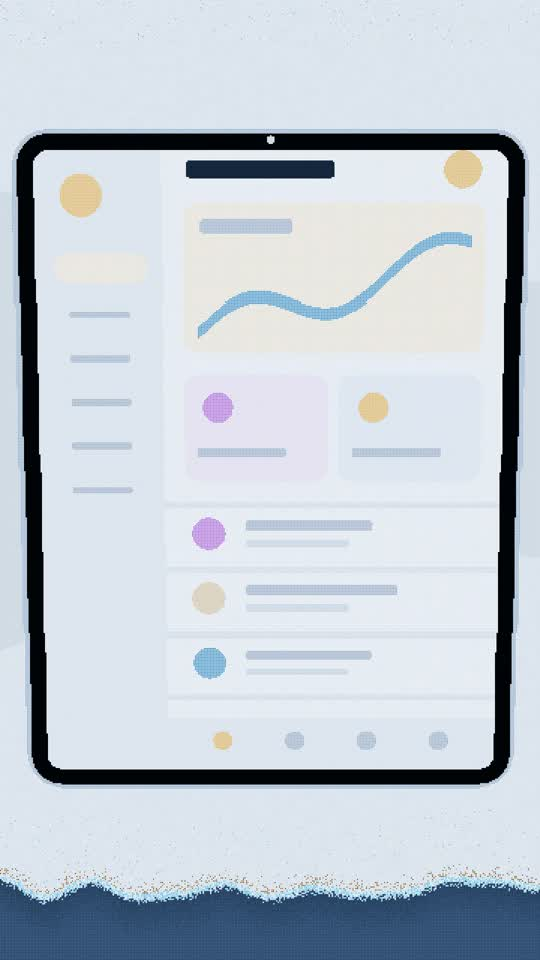
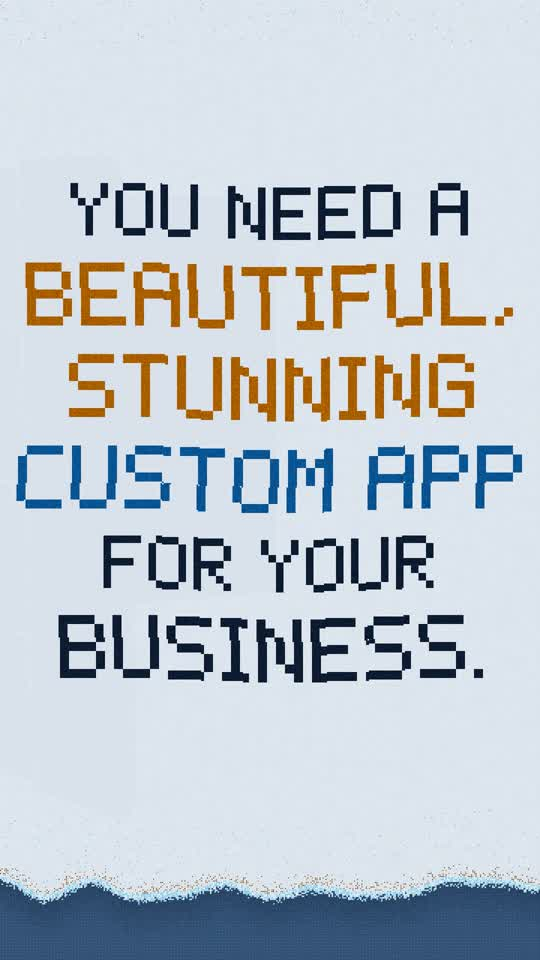
Reach out v5: deeper contrast on the light theme, firmer louder click (T-548)
Thomas's notes on v4: solid deep navy, rich amber and deep blue words with
dark tile gaps; the devices fade out fully behind the message; a more
saturated tunnel at the same brightness (more brightness contrast measured
2.5 flashes a second, too close to the limit of 3, so not used); the PUBLISH
click is a firm snap, knock and body as loud as the music's peaks. v4 kept.

Claude-Session: https://claude.ai/code/session_01XyyhViSzWHw9kb3X7Ra6gn

Changed region(s): [[0.0, 0.125, 0.9778, 0.8438]]

diff --git a/film/reach-out/video/src/scene.ts b/film/reach-out/video/src/scene.ts
@@ -99,8 +99,8 @@ function lum(p: number): number {
   return (0.2126 * (p & 255) + 0.7152 * ((p >>> 8) & 255) + 0.0722 * ((p >>> 16) & 255)) / 255;
 }
 const RAMPS = [
-  ["#DCE5F3", "#D0DDF1", "#C3D4EF", "#B6CBED", "#A9C3EB"], // blue
-  ["#E7E4DE", "#E6DAC7", "#E4D0B0", "#E2C698", "#E0BC81"], // amber
+  ["#D5E5FF", "#C8DEFF", "#BAD5FF", "#ACCCFF", "#9DC4FF"], // blue
+  ["#ECE3D2", "#FFD594", "#FFC974", "#FFBF55", "#FFB235"], // amber
   ["#E3D9E4", "#DCCBDD", "#D4BCD6", "#CCADCF", "#C49EC8"], // rose (unused)
 ].map((r) => r.map(px));
 const HAND = ["#4A76AC", "#5683B8", "#6390C2", "#729DCB", "#82AAD4"].map(px);
@@ -111,6 +111,8 @@ const INK_PX = px(INK);
 const WALL_PX = Uint32Array.from(wallTones, px);
 
 const BLACK_PX = 0xff000000;
+/** The gap around a word tile: a darker shade of the letter, so the words read solid and strong. */
+const wordGap = (col: number) => mixPx(col, BLACK_PX, 0.22);
 /** The gap around a tile: on a dark surface a darker shade of the tile, so the surface reads solid
     on the light ground; on a light one, the ground's own grout. */
 function gapFor(col: number): number {
@@ -866,7 +868,7 @@ const MESSAGE: Line[] = [
 ];
 const MSG: WTile[] = layout(MESSAGE, 0);
 /** How far the devices dim behind the message (0: not at all). */
-export const dimAt = (step: number) => (step < MSG_IN ? 0 : 0.62 * smooth((step - MSG_IN) / (MSG_LAND - MSG_IN)));
+export const dimAt = (step: number) => (step < MSG_IN ? 0 : smooth((step - MSG_IN) / (MSG_LAND - MSG_IN + 3)));
 function swirlTo(t: WTile, k: number): [number, number] {
   const dx = t.c - CX;
   const dy = t.r - CY;
@@ -898,7 +900,7 @@ function drawMessage(b: Uint32Array, step: number, under: Uint32Array) {
       col = t.tone;
       size = step === MSG_LAND || band ? 3 : 2;
     }
-    put(b, c, r, col, size, SKY_PX);
+    put(b, c, r, col, size, wordGap(col));
   }
 }
 
@@ -1035,7 +1037,7 @@ function drawWords(b: Uint32Array, step: number) {
       let r = mix(br, CY + sp * Math.sin(th), w);
       c = Math.min(COLS - 1, Math.max(0, Math.round(c)));
       r = Math.min(ROWS - 1, Math.max(0, Math.round(r)));
-      put(b, c, r, mixPx(all[s0], t.tone, 0.88 * smooth((x - 0.1) / 0.6)), x < 0.08 ? 3 : 2, INK_PX);
+      put(b, c, r, mixPx(all[s0], t.tone, 0.88 * smooth((x - 0.1) / 0.6)), x < 0.08 ? 3 : 2, x > 0.75 ? wordGap(t.tone) : INK_PX);
     } else {
       // Standing: a sway with the beat, a bounce on each beat, and a band of larger tiles.
       const l = step - LAND;
@@ -1045,7 +1047,7 @@ function drawWords(b: Uint32Array, step: number) {
       const sweep = step % 12;
       const band = sweep < 6 && Math.abs(t.c * 2 + t.r - (200 + sweep * 150)) < 7;
       if (fade > 0 && hash(t.c, t.r, 313) < fade * 0.9) continue;
-      put(b, c, r, fade > 0 ? mixPx(t.tone, INK_PX, fade * 0.6) : t.tone, l === 0 || (band && fade === 0) ? 3 : fade > 0.4 ? 1 : 2, INK_PX);
+      put(b, c, r, fade > 0 ? mixPx(t.tone, INK_PX, fade * 0.6) : t.tone, l === 0 || (band && fade === 0) ? 3 : fade > 0.4 ? 1 : 2, fade > 0 ? INK_PX : wordGap(t.tone));
     }
   }
 }

diff --git a/film/reach-out/video/src/tiles.ts b/film/reach-out/video/src/tiles.ts
@@ -19,10 +19,10 @@ export const RIM_NEAR = ["#4CC9F0", "#36B4DE", "#7AD8F5"];
 export const RIM_FAR = ["#BA751A", "#8B5715", "#633E10"];
 
 // Tile families used by the film's pictures and letters.
-export const T_WHITE = ["#1A2E4A", "#203656", "#16283F"];
-export const T_LIME = ["#C47A10", "#D18A1E", "#B86E0A"];
+export const T_WHITE = ["#0E1E38", "#12243F", "#0B1A32"];
+export const T_LIME = ["#C26A00", "#CC7400", "#B66200"];
 export const T_CORAL = ["#D66BFF", "#E08CFF"];
-export const T_TEAL = ["#1F86C4", "#2A93CF", "#1A78B2"];
+export const T_TEAL = ["#0A5FA8", "#0C68B4", "#08579C"];
 export const T_CORAL_DIM = ["#E94B67", "#FF5775"];
 export const T_TEAL_DIM = ["#BA751A", "#12A089"];
 export const T_SLATE = ["#8B85A6", "#9790B3", "#7D7894"];

diff --git a/film/reach-out/SCRIPT.md b/film/reach-out/SCRIPT.md
@@ -147,3 +147,15 @@ v3 is kept in `v3/`. Timings are as v3 (22.17 s).
    then a quieter one as the button springs back); the music drops back in at 7.0 s. A second dead
    stop at 16.0 s, a beat before the burst, which lands on the final hit at 16.5 s. The picture's
    beat pulse rests during both breaks.
+
+## Version 5 (Thomas's notes on v4)
+
+v4 is kept in `v4/`. Timings as v4.
+
+1. **Deeper contrast.** The message and end words are deep navy (#0E1E38), a richer amber
+   (#C26A00) and a deeper blue (#0A5FA8), and their tile gaps are a darker shade of each letter, so
+   the words read solid. The devices fade out completely behind the message (no ghost). The
+   tunnel's colours are more saturated at the same brightness. More tunnel brightness contrast
+   was tried and measured 2.5 flashes in a second (limit 3), too close, so it was not used.
+2. **A louder, firmer click** on the PUBLISH tap: a crisp snap, a woody knock and a low body, as
+   loud as the music's peaks, alone in the break; then a smaller one as the button springs back.
